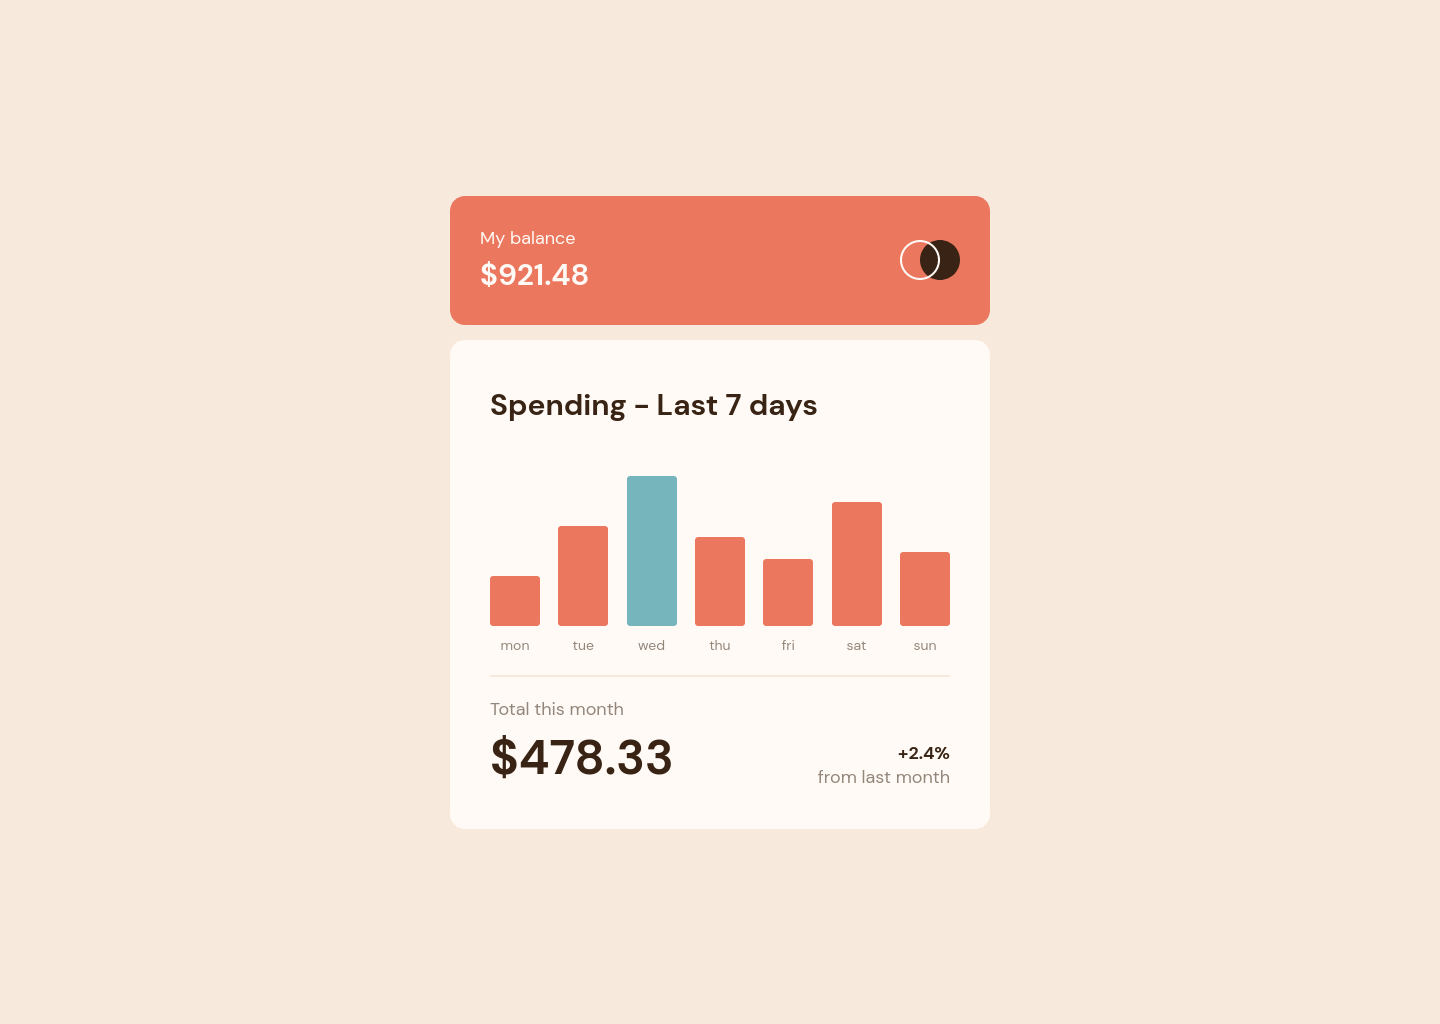
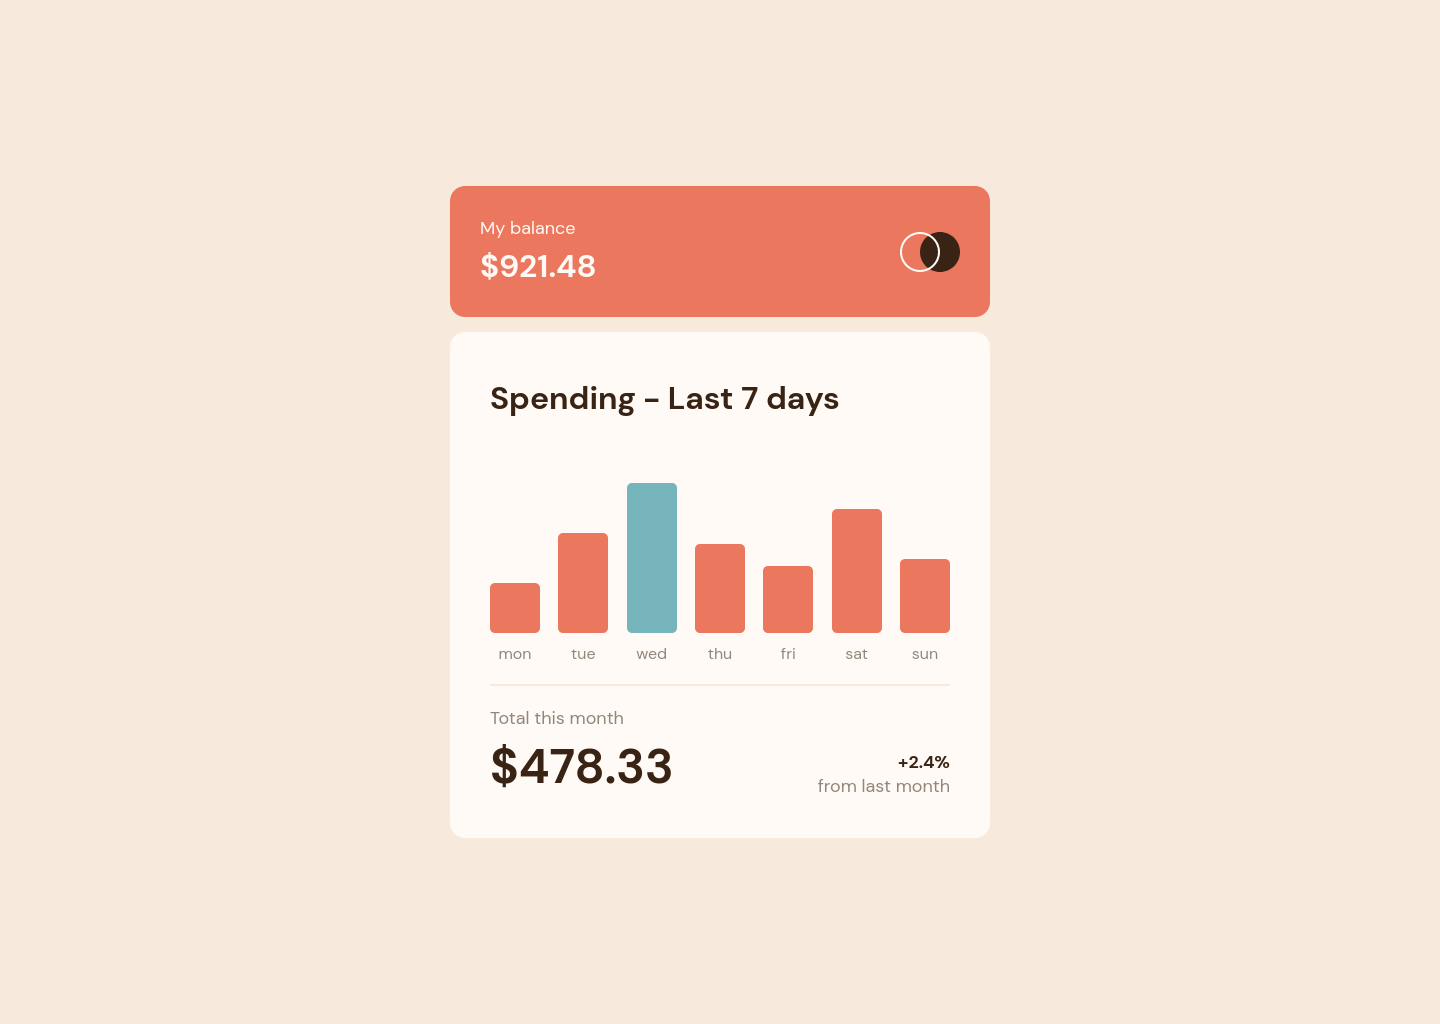
Updated minor details.

diff --git a/css/style.css b/css/style.css
@@ -52,7 +52,7 @@ article {
     }
     
     h2 {
-        font-size: 1.875rem;
+        font-size: 2rem;
     }
 
     p {
@@ -159,13 +159,18 @@ article {
     font-size: .75rem;
     padding: 2px;
     font-weight: var(--fw-bold);
+
     visibility: hidden;
     position: absolute;
-    bottom: 100%;
+    bottom: 102%;
     left: -20%;
 }
 
 @media only screen and (min-width: 376px) {
+    .chart {
+        padding-top: 20px;
+    }
+
     .balance {
         padding: 30px;
     }
@@ -177,12 +182,17 @@ article {
         width: 50px;
     }
 
+    .column > .bar > .color {
+        border-radius: 5px;
+    }
+
     .column > .day {
-        font-size: .875rem;
+        font-size: 1rem;
     }
     .column > .bar > .tooltip {
+        border-radius: 5px;
         font-size: 1.125rem;
-        padding: 10px;
+        padding: 8px;
     }
 }
 
